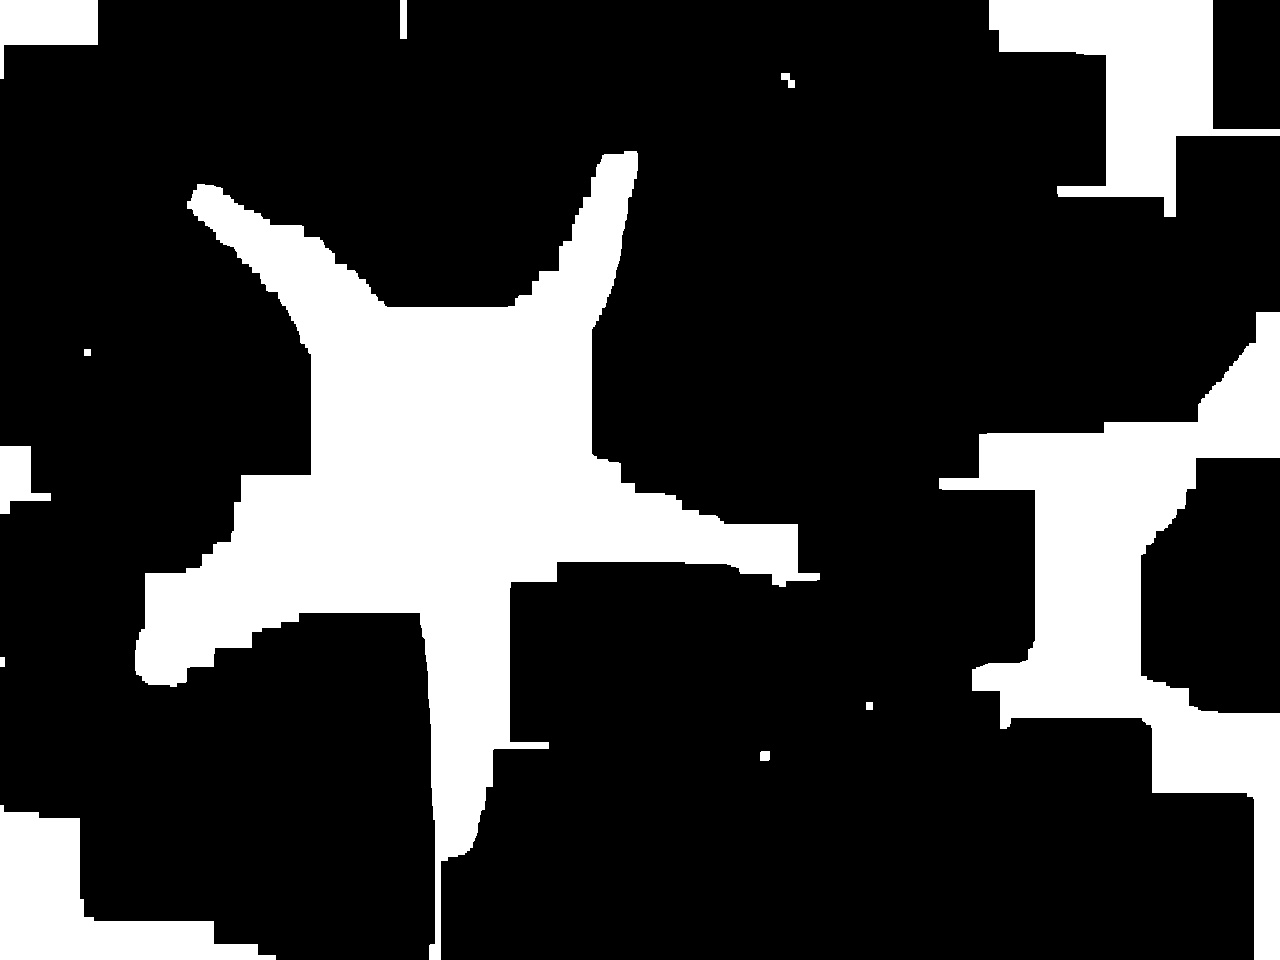
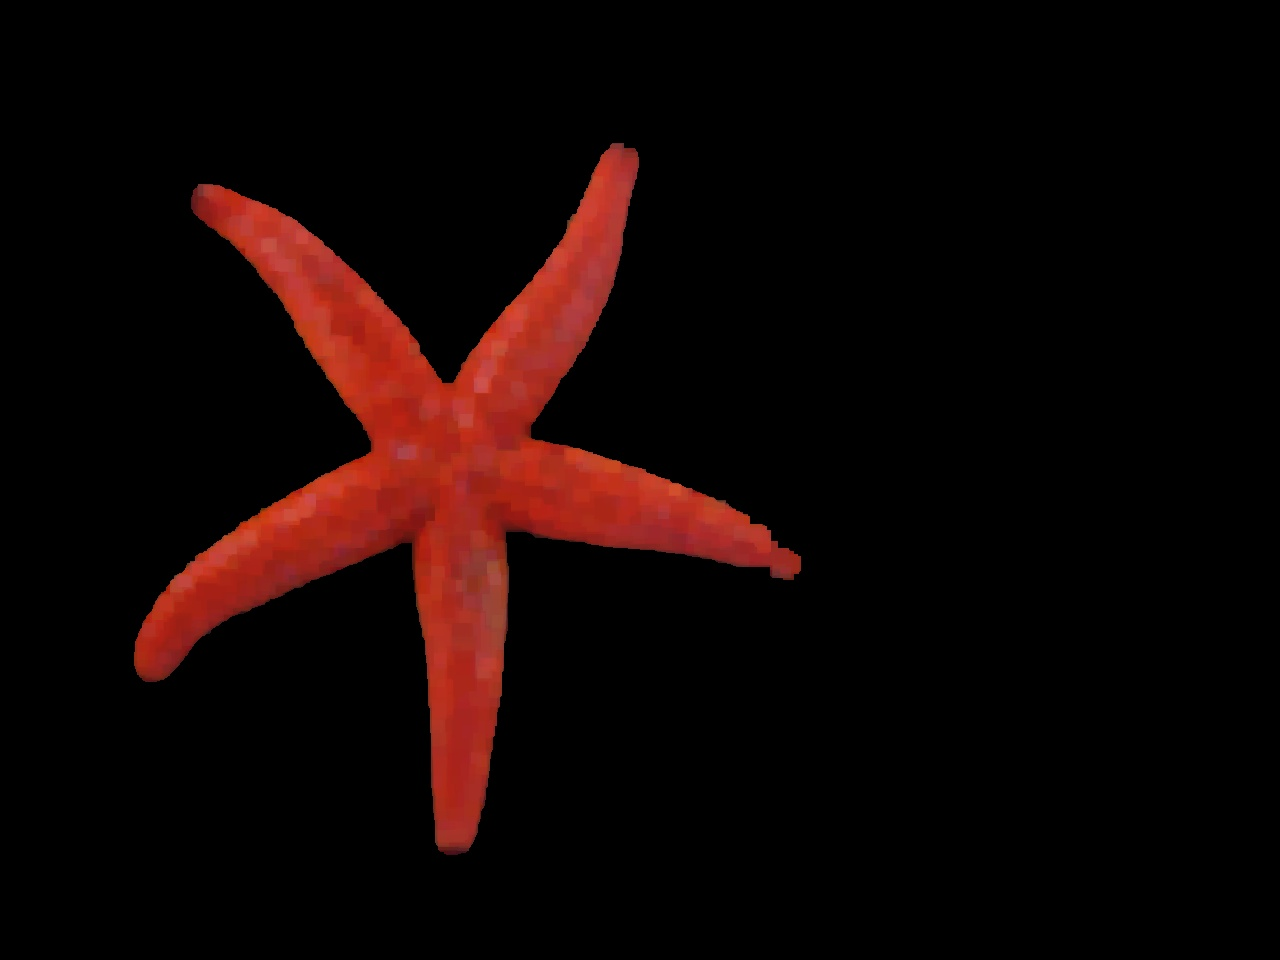
Color Segmentation

diff --git a/color_segmentation.py b/color_segmentation.py
@@ -1,0 +1,59 @@
+import cv2 as cv
+import matplotlib.pyplot as plt
+import numpy as np
+import random as rng
+
+src = cv.imread(cv.samples.findFile('starfish_1280_960.jpg', 1))
+if src is None:
+    print('Could not open or find the Image')
+    exit(0)
+
+blur = cv.blur(src, (5, 5))
+blur1 = cv.GaussianBlur(blur, (5, 5), 0)
+
+
+hsv = cv.cvtColor(src, cv.COLOR_BGR2HSV)
+low_blue = np.array([0, 55, 0])
+high_blue = np.array([255, 250, 255])
+mask = cv.inRange(hsv, low_blue, high_blue)
+
+res = cv.bitwise_and(src, src, mask=mask)
+
+# Beseitigung der Störungen
+kernel = np.ones((3, 3), np.uint8)
+opening = cv.morphologyEx(res, cv.MORPH_OPEN, kernel, iterations=5)
+closing = cv.morphologyEx(opening, cv.MORPH_CLOSE, kernel, iterations=5)
+cv.imwrite('closing_image.jpg', closing)
+
+# Watershed zum Darstellen der Kanten
+gray = cv.cvtColor(closing, cv.COLOR_BGR2GRAY)
+sure_bg = cv.dilate(gray, kernel, iterations=10)
+
+dist_transform = cv.distanceTransform(gray, cv.DIST_L2, 5)
+ret, sure_fg = cv.threshold(dist_transform, 0.7*dist_transform.max(), 255, 0)
+
+sure_fg = np.uint8(sure_fg)
+unknown = cv.subtract(sure_bg, sure_fg)
+
+ret, markers = cv.connectedComponents(sure_fg)
+
+markers = markers+1
+markers[unknown == 255] = 0
+
+
+markers = cv.watershed(hsv, markers)
+hsv[markers == -1] = [0, 255, 255]
+
+# Darstellung
+images = [src, blur1, gray, res, hsv]
+titles = ['Original', 'Gauß Filter', '-----', 'Color Segmentation', '']
+
+for i in range(len(images)):
+    if i != 4:
+        images[i] = cv.cvtColor(images[i], cv.COLOR_BGR2RGB)
+    else:
+        images[i] = cv.cvtColor(images[i], cv.COLOR_HSV2RGB)
+    plt.subplot(3, 3, i + 1), plt.imshow(images[i], cmap='gray')
+    plt.title(titles[i]), plt.xticks([]), plt.yticks([])
+
+plt.show()

diff --git a/classification.py b/classification.py
@@ -3,10 +3,46 @@ import numpy as np
 from matplotlib import pyplot as plt
 
 image = cv.imread('coins.jpg')
-gray = cv.cvtColor(image, cv.Color_BGR2GRAY)
-re, thresh = cv.threshold(gray, 0 ,255, cv.THRESH_BINARY_INV + cv.THRESH_OTSU)
+src = cv.imread('coins.jpg')
+gray = cv.cvtColor(image, cv.COLOR_BGR2GRAY)
+ret, thresh = cv.threshold(gray, 0, 255, cv.THRESH_BINARY_INV + cv.THRESH_OTSU)
 
+# noise removal
+kernel = np.ones((3, 3), np.uint8)
+opening = cv.morphologyEx(thresh, cv.MORPH_OPEN, kernel, iterations=2)
 
-cv.imshow('Output', image)
+# sure background area
+sure_bg = cv.dilate(opening, kernel, iterations=3)
+
+# sure foreground area
+dist_transform = cv.distanceTransform(opening, cv.DIST_L2, 5)
+_, sure_fg = cv.threshold(dist_transform, 0.7 * dist_transform.max(), 255, 0)
+
+# unknown region
+sure_fg = np.uint8(sure_fg)
+unknown = cv.subtract(sure_bg, sure_fg)
+
+# Marker labelling
+_, markers = cv.connectedComponents(sure_fg)
+
+markers += 1
+
+markers[unknown == 255] = 0
+
+markers = cv.watershed(image, markers)
+image[markers == -1] = [255, 0, 0]
+
+images = [src, gray, thresh, opening, sure_bg, sure_fg, unknown, markers, image]
+titles = ['Original', 'Graubild', 'Schwellenwert', 'Opening', 'Hintergrund', 'Vordergrund', 'Unbekannter Bereich', 'Marker', 'Ergebnis']
+
+for i in range(9):
+    if i != 7:
+        images[i] = cv.cvtColor(images[i], cv.COLOR_BGR2RGB)
+
+    plt.subplot(3, 3, i + 1), plt.imshow(images[i])
+    plt.title(titles[i]), plt.xticks([]), plt.yticks([])
+
+plt.tight_layout()
+plt.show()
 cv.waitKey(0)
 

diff --git a/segmentation_two.py b/segmentation_two.py
@@ -27,14 +27,12 @@ image_Result = np.clip(image_Result, 0, 255)
 image_Result = image_Result.astype('uint8')
 image_Laplacian = np.clip(image_Laplacian, 0, 255)
 image_Laplacian = np.uint8(image_Laplacian)
-cv.imshow('New Sharped Image', image_Result)
 
 plt.subplot(221), plt.imshow(image_Result, cmap='gray')
 plt.title('Laplace Operator'), plt.xticks([]), plt.yticks([])
 
 bw = cv.cvtColor(image_Result, cv.COLOR_BGR2GRAY)
 _, bw = cv.threshold(bw, 40, 255, cv.THRESH_BINARY_INV | cv.THRESH_OTSU)
-cv.imshow('Binary Image', bw)
 
 plt.subplot(222), plt.imshow(bw, cmap='gray')
 plt.title('Schwellenwert Binarisierung'), plt.xticks([]), plt.yticks([])
@@ -42,7 +40,6 @@ plt.title('Schwellenwert Binarisierung'), plt.xticks([]), plt.yticks([])
 dist = cv.distanceTransform(bw, cv.DIST_L2, 3)
 
 cv.normalize(dist, dist, 0, 1.0, cv.NORM_MINMAX)
-cv.imshow('Distance Transform Image', dist)
 
 plt.subplot(223), plt.imshow(dist, cmap='gray')
 plt.title('Distanz Transoformation'), plt.xticks([]), plt.yticks([])
@@ -51,9 +48,8 @@ _, dist = cv.threshold(dist, 0.4, 1.0, cv.THRESH_BINARY)
 
 kernel1 = np.ones((3, 3), dtype=np.uint8)
 dist = cv.dilate(dist, kernel1)
-cv.imshow('Peaks', dist)
 
 plt.subplot(224), plt.imshow(dist, cmap='gray')
-plt.title('Dilationdd'), plt.xticks([]), plt.yticks([])
+plt.title('Dilation'), plt.xticks([]), plt.yticks([])
 
 plt.show()

diff --git a/segmentation_one.py b/segmentation_one.py
@@ -1,4 +1,5 @@
 import cv2 as cv
+import matplotlib.pyplot as plt
 import numpy as np
 import random as rng
 
@@ -10,8 +11,13 @@ if src is None:
 gray_image = cv.cvtColor(src, cv.COLOR_BGR2GRAY)
 ret, threshold = cv.threshold(gray_image, 0, 255, cv.THRESH_BINARY_INV + cv.THRESH_OTSU)
 
+hsv = cv.cvtColor(src, cv.COLOR_BGR2HSV)
+low_blue = np.array([55, 0, 0])
+high_blue = np.array([118, 255, 255])
+mask = cv.inRange(hsv, low_blue, high_blue)
+
 kernel = np.ones((3, 3), np.uint8)
-opening = cv.morphologyEx(threshold, cv.MORPH_OPEN, kernel, iterations=3)
+opening = cv.morphologyEx(hsv, cv.MORPH_OPEN, kernel, iterations=3)
 closing = cv.morphologyEx(opening, cv.MORPH_CLOSE, kernel, iterations=60)
 cv.imwrite('closing_image.jpg', closing)
 
@@ -28,8 +34,13 @@ ret, markers = cv.connectedComponents(sure_fg)
 markers = markers+1
 markers[unknown == 255] = 0
 
-markers = cv.watershed(src,markers)
-src[markers == -1] = [255,0,0]
 
-cv.imshow("test", src)
-cv.waitKey(0)
+markers = cv.watershed(src, markers)
+src[markers == -1] = [255, 255, 0]
+
+src = cv.cvtColor(src, cv.COLOR_BGR2RGB)
+
+plt.subplot(2, 1, 1), plt.imshow(src, cmap='gray')
+plt.title('Watershed'), plt.xticks([]), plt.yticks([])
+
+plt.show()

diff --git a/dnn.py b/dnn.py
@@ -1,0 +1,36 @@
+import tensorflow as tf
+
+mnist = tf.keras.datasets.mnist
+
+(x_train, y_train), (x_test, y_test) = mnist.load_data()
+x_train, x_test = x_train / 255.0, x_test / 255.0
+
+model = tf.keras.models.Sequential([
+    tf.keras.layers.Flatten(input_shape=(28, 28)),
+    tf.keras.layers.Dense(128, activation='relu'),
+    tf.keras.layers.Dropout(0.2),
+    tf.keras.layers.Dense(10)
+])
+
+predictions = model(x_train[:1]).numpy()
+
+tf.nn.softmax(predictions).numpy()
+
+loss_fn = tf.keras.losses.SparseCategoricalCrossentropy(from_logits=True)
+
+loss_fn(y_train[:1], predictions).numpy()
+
+model.compile(optimizer='adam',
+              loss=loss_fn,
+              metrics=['accuracy'])
+
+model.fit(x_train, y_train, epochs=5)
+
+model.evaluate(x_test,  y_test, verbose=2)
+
+probability_model = tf.keras.Sequential([
+  model,
+  tf.keras.layers.Softmax()
+])
+
+probability_model(x_test[:5])

diff --git a/thresholding.py b/thresholding.py
@@ -2,7 +2,7 @@ import cv2 as cv
 import numpy as np
 from matplotlib import pyplot as plt
 
-image = cv.imread('starfish_1280_960.jpg', 0)
+image = cv.imread('noisy square.jpg', 0)
 #global
 ret1, threshold1 = cv.threshold(image, 127, 255, cv.THRESH_BINARY)
 
@@ -18,7 +18,7 @@ titles = ['Original', 'Global Thresholding', 'Original', 'Otsu Thresholding', 'G
 
 for i in range(6):
     plt.subplot(3, 2, i + 1), plt.imshow(images[i], cmap='gray')
-    plt.title(titles[i]), plt.xticks(), plt.yticks()
+    plt.title(titles[i]), plt.xticks([]), plt.yticks([])
 
 plt.tight_layout()
 plt.show()

diff --git a/test2.py b/test2.py
@@ -1,0 +1,11 @@
+def format_number(n):
+    string2 = str(n)
+    string2.replace('00', '23')
+    for i in string2:
+        string2 += i + ','
+    return string2
+
+
+if __name__ == '__main__':
+    print(format_number(1000000))
+
